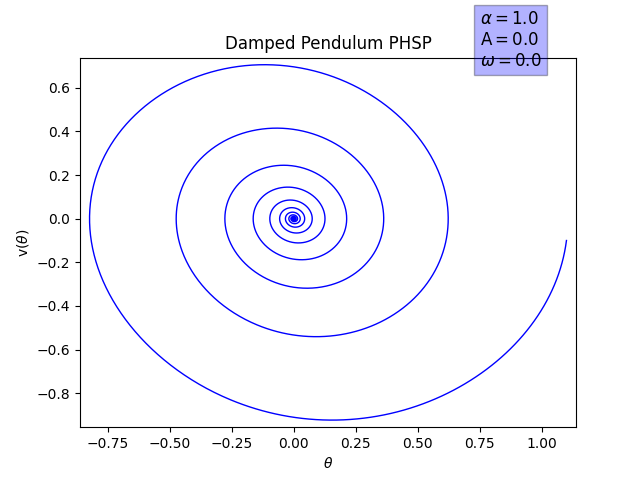
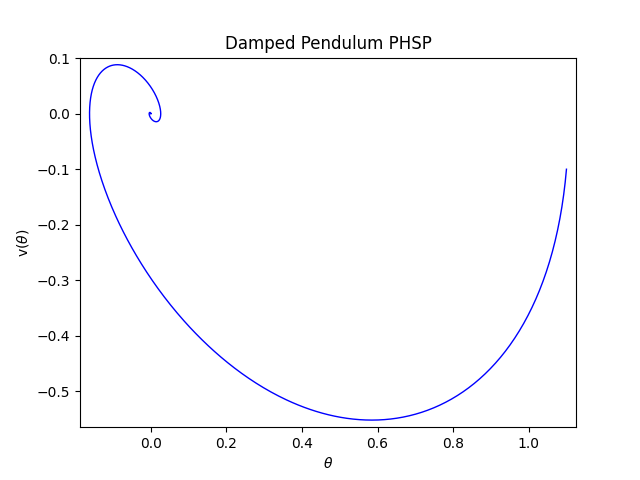
Added Question3 first draft

diff --git a/Assignment1/Question3/solver.py b/Assignment1/Question3/solver.py
@@ -1,0 +1,88 @@
+'''
+This script provides a solver routine for
+the BVP for Question 3 of Assignment 1.
+'''
+
+# Python imports
+import numpy as np
+
+# Derivative kernel
+def kernel(u, r, E, l):
+    alpha = 0.471
+    sigma = 0.2025
+    m = 1.27/2
+    u_der = u[1]    # dtheta/dt
+    u_dder = 2*m*(-alpha/r + sigma*r + l*(l+1)/(2*m*r*r) - E)*u[0]    # dv/dt
+    return np.array([u_der, u_dder])
+
+# Solver routine
+def integrator(u, routine, N, r0, rf, nNodes, *args, kernel=kernel):
+    h = (rf-r0)/N   # step size
+
+    # initialise theta, v arrays
+    u_arr = np.array([u[0]])
+
+    # node counter
+    nodes = 0
+
+    # iteration loop
+    for i in range(0, N):
+        u = routine(r0 + i*h, u, h, kernel, *args)
+        u_arr = np.append(u_arr, u[0])
+
+        if (np.sign(u_arr[i+1]) != np.sign(u_arr[i]) and u_arr[i] != 0):
+            nodes += 1
+            if (nodes > nNodes):
+                return [nodes], False
+
+    if (nodes < nNodes):
+        return [nodes], False
+
+    return u, True
+
+# Secant method for root finding
+def secant(v1, v2, x1, x2, xf):
+    return v1 + (xf - x1)*(v1 - v2)/(x1 - x2)
+
+# Main Solver for Schrodinger eqn
+def solver(u0, r0, rf, l, E1, E2, N, tol, routine, nNodes):
+
+    u1, flag = integrator(u0, routine, N, r0, rf, nNodes, E1, l)
+    while (flag == False):  # handle bad initial guesses
+        mult = pow(2, nNodes - u1[0]) if nNodes > u1[0] else pow(1.5, nNodes - u1[0])
+        E1 = E1*mult
+        u1, flag = integrator(u0, routine, N, r0, rf, nNodes, E1, l)
+
+    u2, flag = integrator(u0, routine, N, r0, rf, nNodes, E2, l)
+    while (flag == False):  # handle bad initial guesses
+        mult = pow(2, nNodes - u2[0]) if nNodes > u2[0] else pow(1.5, nNodes - u2[0])
+        E2 = E2*mult
+        u2, flag = integrator(u0, routine, N, r0, rf, nNodes, E2, l)
+
+    # luck check
+    if (abs(u1[0] - 0) < tol):
+        print(E1)
+
+    # iteration loop
+    i=0
+    while (i < 100):
+        if (abs(u2[0] - 0) < tol):  # exit condition
+            return E2
+        else:
+            # root finder   
+            Em = secant(E1, E2, u1[0], u2[0], 0)
+            E1 = E2
+            E2 = Em
+            u1[0] = u2[0]
+            
+            # run with updated Energy
+            u2, flag = integrator(u0, routine, N, r0, rf, nNodes, E2, l)
+            while (flag == False):  # handle bad guess
+                print(4, u2[0], E2)
+                input()
+                mult = pow(2, nNodes - u2[0]) if nNodes > u2[0] else pow(1.5, nNodes - u2[0])
+                E2 = E2*mult
+                u2, flag = integrator(u0, routine, N, r0, rf, nNodes, E2, l)
+            
+            # increase iterator
+            i += 1

diff --git a/Assignment1/Question2/solver.py b/Assignment1/Question2/solver.py
@@ -13,11 +13,13 @@ R = 6371 #km
 
 # Derivative kernel
 def kernel(u, t):
-    theta_der = u[1]                # dtheta/dt
-    r_der = u[3]                    # dr/dt
-    theta_dder = -2*u[3]*u[1]/u[2]  # d^2theta/dt^2
-    r_dder =  -g + u[2]*u[1]*u[1]   # d^2r/dt^2
-    return np.array([theta_der, theta_dder, r_der, r_dder])
+    phi_der = u[1]
+    theta_der = u[3]                # dtheta/dt
+    r_der = u[5]                    # dr/dt
+    phi_dder = -2*u[5]*u[3]/u[4] - 2*u[3]*u[1]*cos(u[2])/sin(u[2])
+    theta_dder = sin(u[2])*cos(u[2])*u[1]*u[1] - 2*u[5]*u[3]/u[4]  # d^2theta/dt^2
+    r_dder =  -g + u[4]*u[3]*u[3] + u[4]*sin(u[2])*sin(u[2])*u[1]*u[1]   # d^2r/dt^2
+    return np.array([phi_der, phi_dder, theta_der, theta_dder, r_der, r_dder])
 
 # return radius of disc whose plane particle moves in
 def R_disc(lat):
@@ -27,19 +29,21 @@ def R_disc(lat):
 def solver(theta0, lat, v0, elevation, t0, h, routine, *args, kernel=kernel):
     
     # instantiate evolving vars
-    u = [0, 0, 0, 0]
+    u = [0, 0, 0, 0, 0, 0]
 
     # initial conditions
     u[0] = theta0*pi/180
     u[1] = v0*cos(elevation*pi/180)/R_disc(lat)
-    u[2] = R_disc(lat)
-    u[3] = v0*sin(elevation*pi/180)
+    u[2] = pi/2 - lat*pi/180
+    u[3] = 0
+    u[4] = R
+    u[5] = v0*sin(elevation*pi/180)
 
     # initialise theta, r arrays
-    theta_arr = np.array([u[0]])
-    theta_d_arr = np.array([u[1]])
-    r_arr = np.array([u[2]])
-    r_d_arr = np.array([u[3]])
+    phi_arr = np.array([u[0]])
+    phi_d_arr = np.array([u[1]])
+    r_arr = np.array([u[4]])
+    r_d_arr = np.array([u[5]])
 
     # iteration loop
     i = 0
@@ -47,15 +51,15 @@ def solver(theta0, lat, v0, elevation, t0, h, routine, *args, kernel=kernel):
         u = routine(t0 + i*h, u, h, kernel, *args)
 
         # break condition
-        if (u[2] < R_disc(lat)): break
+        if (u[4] < R): break
 
         # update arrs
-        theta_arr = np.append(theta_arr, u[0])
-        theta_d_arr = np.append(theta_d_arr, u[1])
-        r_arr = np.append(r_arr, u[2])
-        r_d_arr = np.append(r_d_arr, u[3])
+        phi_arr = np.append(phi_arr, u[0])
+        phi_d_arr = np.append(phi_d_arr, u[1])
+        r_arr = np.append(r_arr, u[4])
+        r_d_arr = np.append(r_d_arr, u[5])
         i += 1
 
-    return theta_arr, theta_d_arr, r_arr, r_d_arr, i
+    return phi_arr, phi_d_arr, r_arr, r_d_arr, i
 
 

diff --git a/Assignment1/Question1/partC.py b/Assignment1/Question1/partC.py
@@ -30,9 +30,9 @@ tf = 100
 u1 = [1.1,-0.1]
 u2 = [1.09, -0.1]
 
-# A = 0.5, alpha = 0.5
-theta_arr_1, v_arr_1 = solver(u1, rk4, N, t0, tf, 0.5, 0.5, 1.)
-theta_arr_2, v_arr_2 = solver(u2, rk4, N, t0, tf, 0.5, 0.5, 1.)
+# A = 0.5, alpha = 0.1
+theta_arr_1, v_arr_1 = solver(u1, rk4, N, t0, tf, 0.1, 0.5, 1.)
+theta_arr_2, v_arr_2 = solver(u2, rk4, N, t0, tf, 0.1, 0.5, 1.)
 
 plt1 = plt_creator(
     title=r'Damped Driven Pendulum $\Delta\theta$ vs t', 
@@ -45,9 +45,9 @@ plt1.plot(np.linspace(t0, tf, N+1), theta_arr_1-theta_arr_2, linewidth=1, color=
 plt1.savefig("Results/partC1_Dtht.png")
 
 
-# A = 0.9, alpha = 0.5
-theta_arr_1, v_arr_1 = solver(u1, rk4, N, t0, tf, 0.5, 0.9, 1.)
-theta_arr_2, v_arr_2 = solver(u2, rk4, N, t0, tf, 0.5, 0.9, 1.)
+# A = 0.9, alpha = 0.1
+theta_arr_1, v_arr_1 = solver(u1, rk4, N, t0, tf, 0.1, 0.9, 1.)
+theta_arr_2, v_arr_2 = solver(u2, rk4, N, t0, tf, 0.1, 0.9, 1.)
 
 plt1 = plt_creator(
     title=r'Damped Driven Pendulum $\Delta\theta$ vs t', 
@@ -61,9 +61,9 @@ plt1.plot(np.linspace(t0, tf, N+1), theta_arr_1-theta_arr_2, linewidth=1, color=
 plt1.savefig("Results/partC2_Dtht.png")
 
 
-# A = 1.07, alpha = 0.5
-theta_arr_1, v_arr_1 = solver(u1, rk4, N, t0, tf, 0.5, 1.07, 1.)
-theta_arr_2, v_arr_2 = solver(u2, rk4, N, t0, tf, 0.5, 1.07, 1.)
+# A = 1.07, alpha = 0.1
+theta_arr_1, v_arr_1 = solver(u1, rk4, N, t0, tf, 0.1, 1.07, 1.)
+theta_arr_2, v_arr_2 = solver(u2, rk4, N, t0, tf, 0.1, 1.07, 1.)
 
 plt1 = plt_creator(
     title=r'Damped Driven Pendulum $\Delta\theta$ vs t', 
@@ -77,9 +77,9 @@ plt1.plot(np.linspace(t0, tf, N+1), theta_arr_1-theta_arr_2, linewidth=1, color=
 plt1.savefig("Results/partC3_Dtht.png")
 
 
-# A = 1.1, alpha = 0.5
-theta_arr_1, v_arr_1 = solver(u1, rk4, N, t0, tf, 0.5, 1.1, 1.)
-theta_arr_2, v_arr_2 = solver(u2, rk4, N, t0, tf, 0.5, 1.1, 1.)
+# A = 1.1, alpha = 0.1
+theta_arr_1, v_arr_1 = solver(u1, rk4, N, t0, tf, 0.1, 1.1, 1.)
+theta_arr_2, v_arr_2 = solver(u2, rk4, N, t0, tf, 0.1, 1.1, 1.)
 
 plt1 = plt_creator(
     title=r'Damped Driven Pendulum $\Delta\theta$ vs t', 

diff --git a/Assignment1/Question1/partB.py b/Assignment1/Question1/partB.py
@@ -25,8 +25,8 @@ tf = 100
 u = [1.1, -0.1]
 
 
-# A = 0.5, alpha = 0.5
-theta_arr, v_arr = solver(u, rk4, N, t0, tf, 0.5, 0.5, 1.)
+# A = 0.5, alpha = 0.1
+theta_arr, v_arr = solver(u, rk4, N, t0, tf, 0.1, 0.5, 1.)
 plt1 = plt_creator(
     title="Damped Driven Pendulum PHSP", 
     xLabel=r'$\theta$', 
@@ -38,8 +38,8 @@ plt1.plot(theta_arr, v_arr, linewidth=1, color= blue)
 plt1.savefig("Results/partB1_PHSP.png")
 
 
-# A = 0.9, alpha = 0.5
-theta_arr, v_arr = solver(u, rk4, N, t0, tf, 0.5, 0.9, 1.)
+# A = 0.9, alpha = 0.1
+theta_arr, v_arr = solver(u, rk4, N, t0, tf, 0.1, 0.9, 1.)
 plt1 = plt_creator(
     title="Damped Driven Pendulum PHSP", 
     xLabel=r'$\theta$', 
@@ -51,8 +51,8 @@ plt1.plot(theta_arr, v_arr, linewidth=1, color= blue)
 plt1.savefig("Results/partB2_PHSP.png")
 
 
-# A = 1.07, alpha = 0.5
-theta_arr, v_arr = solver(u, rk4, N, t0, tf, 0.5, 1.07, 1.)
+# A = 1.07, alpha = 0.1
+theta_arr, v_arr = solver(u, rk4, N, t0, tf, 0.1, 1.07, 1.)
 plt1 = plt_creator(
     title="Damped Driven Pendulum PHSP", 
     xLabel=r'$\theta$', 
@@ -64,8 +64,8 @@ plt1.plot(theta_arr, v_arr, linewidth=1, color= blue)
 plt1.savefig("Results/partB3_PHSP.png")
 
 
-# A = 1.1, alpha = 0.5
-theta_arr, v_arr = solver(u, rk4, N, t0, tf, 0.5, 1.1, 1.)
+# A = 1.1, alpha = 0.1
+theta_arr, v_arr = solver(u, rk4, N, t0, tf, 0.1, 1.1, 1.)
 plt1 = plt_creator(
     title="Damped Driven Pendulum PHSP", 
     xLabel=r'$\theta$', 

diff --git a/Utils/int_routines.py b/Utils/int_routines.py
@@ -1,8 +1,8 @@
 # Script Containing Integration Methods
 
 # Forward difference method
-def euler(xn, yn, h, func):
-    return yn + h*func(yn, xn)
+def euler(xn, yn, h, func, *args):
+    return yn + h*func(yn, xn, *args)
 
 # Multistep method
 def multistep(xn, yn, ynn, h, func, *args):
@@ -11,19 +11,19 @@ def multistep(xn, yn, ynn, h, func, *args):
 # Trapezoidal Predictor Corrector
 def trapezoidal_pc(xn, yn, h, func, *args):
     yp = yn + h*func(yn, xn, *args)
-    return yn + (h/2)*(func(yn, xn) + func(yp, xn + h))
+    return yn + (h/2)*(func(yn, xn, *args) + func(yp, xn + h, *args))
 
 # Runge Kutta of order 2
 def rk2(xn, yn, h, func, *args):
     k = yn + (h/2)*func(yn, xn, *args)
-    return yn + h*func(k, xn + h/2)
+    return yn + h*func(k, xn + h/2, *args)
 
 # Runge Kutta of order 4
 def rk4(xn, yn, h, func, *args):
     k1 = func(yn, xn, *args)
-    k2 = func(yn + (h/2)*k1, xn + h/2)
-    k3 = func(yn + (h/2)*k2, xn + h/2)
-    k4 = func(yn + h*k3, xn + h)
+    k2 = func(yn + (h/2)*k1, xn + h/2, *args)
+    k3 = func(yn + (h/2)*k2, xn + h/2, *args)
+    k4 = func(yn + h*k3, xn + h, *args)
     return yn + (h/6)*(k1 + 2*(k2 + k3) + k4)
 
 # Adams-Bashforth of order 4

diff --git a/Assignment1/Question3/partA.py b/Assignment1/Question3/partA.py
@@ -1,0 +1,38 @@
+'''
+This script provides the solution for 
+part (A) of Question 3 of Assignment 1
+'''
+
+import sys
+import os
+
+# Add the Utils Module
+dir_path = os.path.dirname(os.path.realpath(__file__))
+sys.path.append(dir_path.replace("Assignment1/Question3", ""))
+
+# Utils module imports
+from Utils.int_routines import rk4
+
+# Local imports
+from solver import solver
+
+# Simulation constants
+r0 = 20
+rf = 0
+u0 = [1E-5, 1E-5]
+tol = 1E-5
+E1 = 0.2
+E2 = 0.3
+N = 1000
+
+# 1-S meson
+E = solver(u0, r0, rf, 0, E1, E2, N, tol, rk4, 0)
+print("Mass of 1-S charmonium state is", 2*1.27 + E, "GeV")
+
+# 2-S meson
+E = solver(u0, r0, rf, 0, E1, E2, N, tol, rk4, 1)
+print("Mass of 2-S charmonium state is", 2*1.27 + E, "GeV")
+
+# 1-P meson
+E = solver(u0, r0, rf, 1, E1, E2, N, tol, rk4, 0)
+print("Mass of 1-P charmonium state is", 2*1.27 + E, "GeV")

diff --git a/Assignment1/Question1/solver.py b/Assignment1/Question1/solver.py
@@ -29,7 +29,3 @@ def solver(u, routine, N, t0, tf, *args, kernel=kernel):
         v_arr = np.append(v_arr, u[1])
     
     return theta_arr, v_arr
-
-    
-
-

diff --git a/Assignment1/Question2/partA.py b/Assignment1/Question2/partA.py
@@ -22,7 +22,7 @@ def rotation_corr(omega, t):
     return omega*t
 
 # Simulation constants
-h = 0.001 # 3.6s
+h = 0.01 # 3.6s
 t0 = 0
 
 # first part
